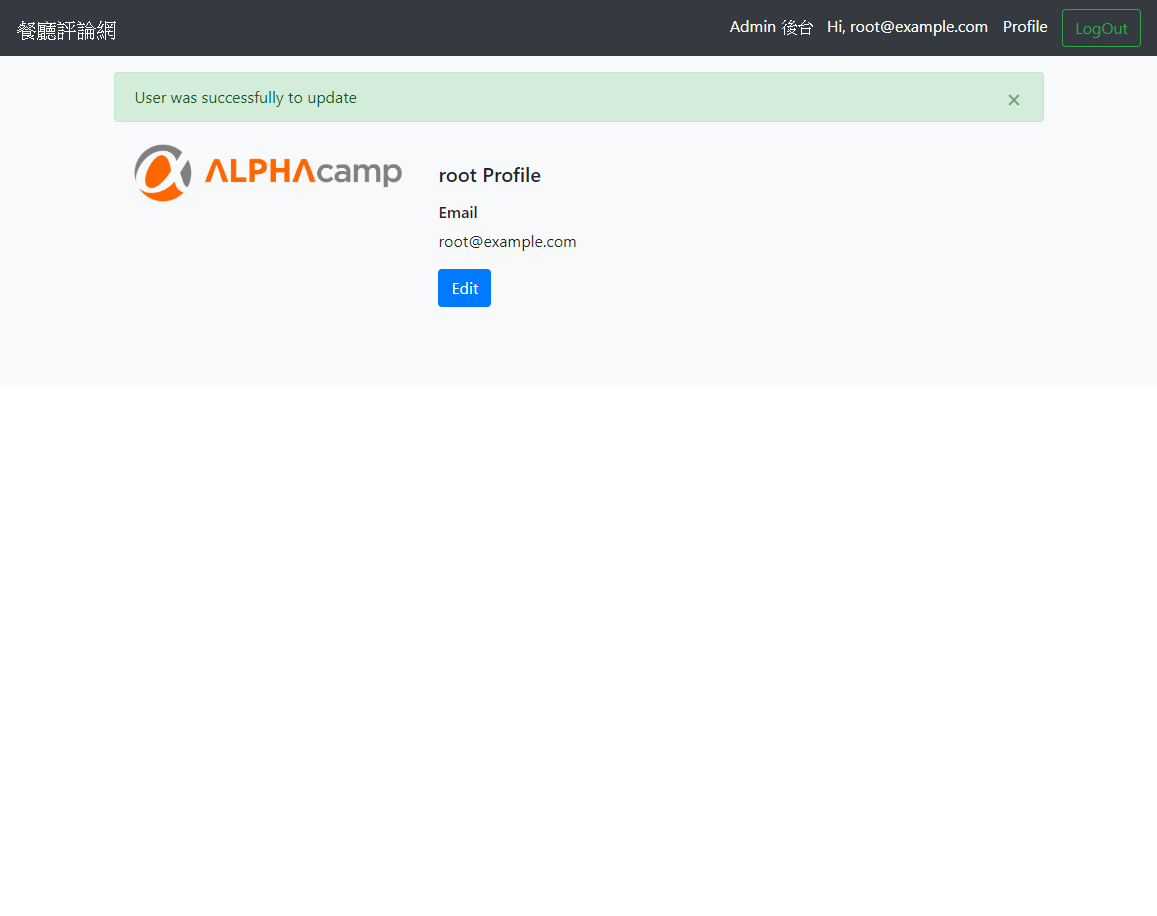
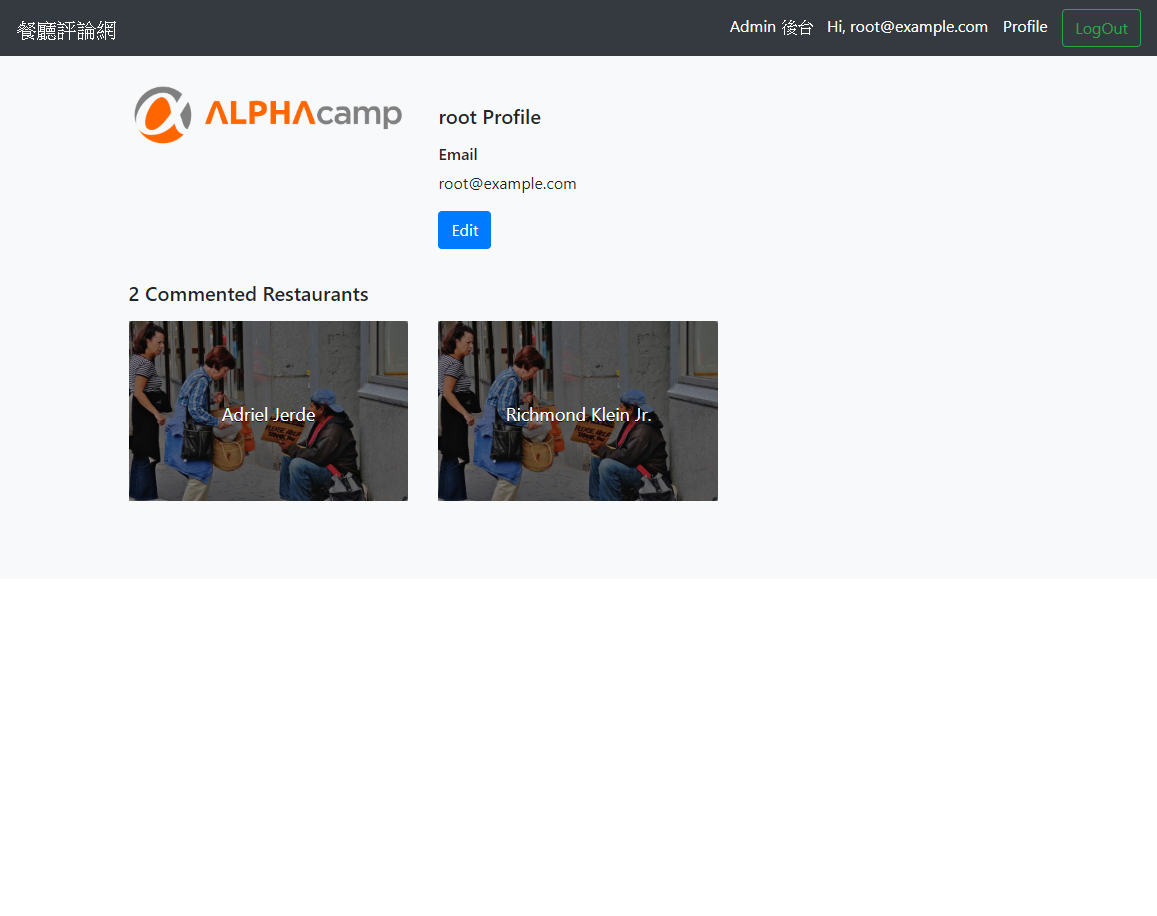
Add Dashboard controller, view and route

Changed region(s): [[0.0933, 0.0611, 0.9023, 0.5502]]

diff --git a/controllers/restController.js b/controllers/restController.js
@@ -82,6 +82,25 @@ const restController = {
         })
       })
     })
+  },
+  getDashboard: (req, res) => {
+    return Comment.findAndCountAll({
+      where: {
+        'RestaurantId': req.params.id
+      }
+    }).then(comments => {
+      console.log()
+      Restaurant.findByPk(req.params.id, { include: [Category] })
+        .then(restaurant => {
+          return res.render('dashboard', {
+            restaurant,
+            commentCount: comments.count
+          })
+
+        })
+
+    })
+
   }
 }
 module.exports = restController

diff --git a/routes/index.js b/routes/index.js
@@ -79,4 +79,6 @@ module.exports = (app, passport) => {
   app.delete('/favorite/:restaurantId', authenticated, userController.removeFavorite)
 
 
+  // show dashboard
+  app.get('/restaurants/:id/dashboard', authenticated, restController.getDashboard)
 }
